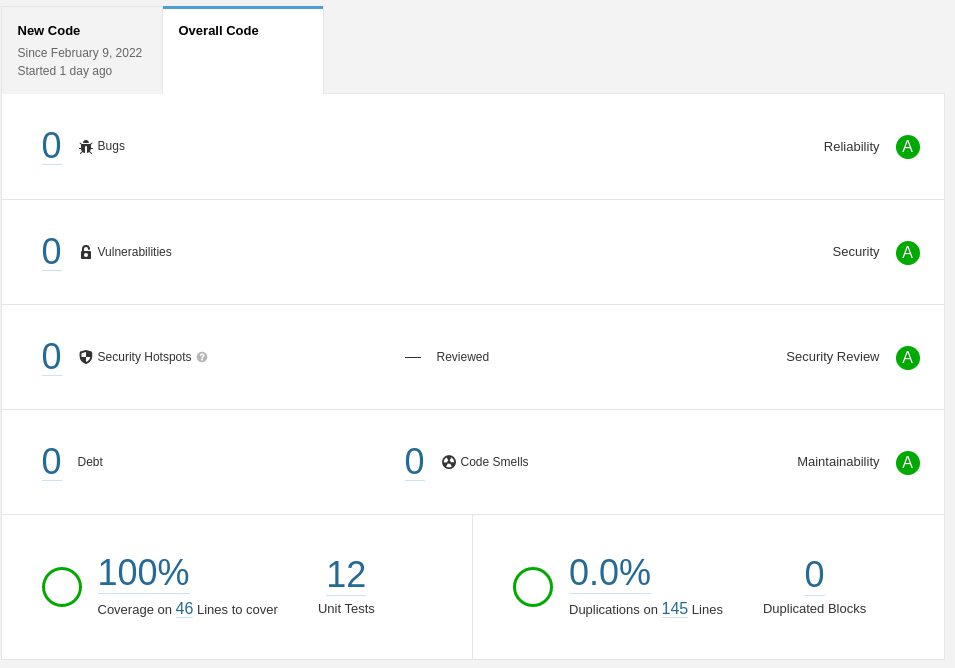
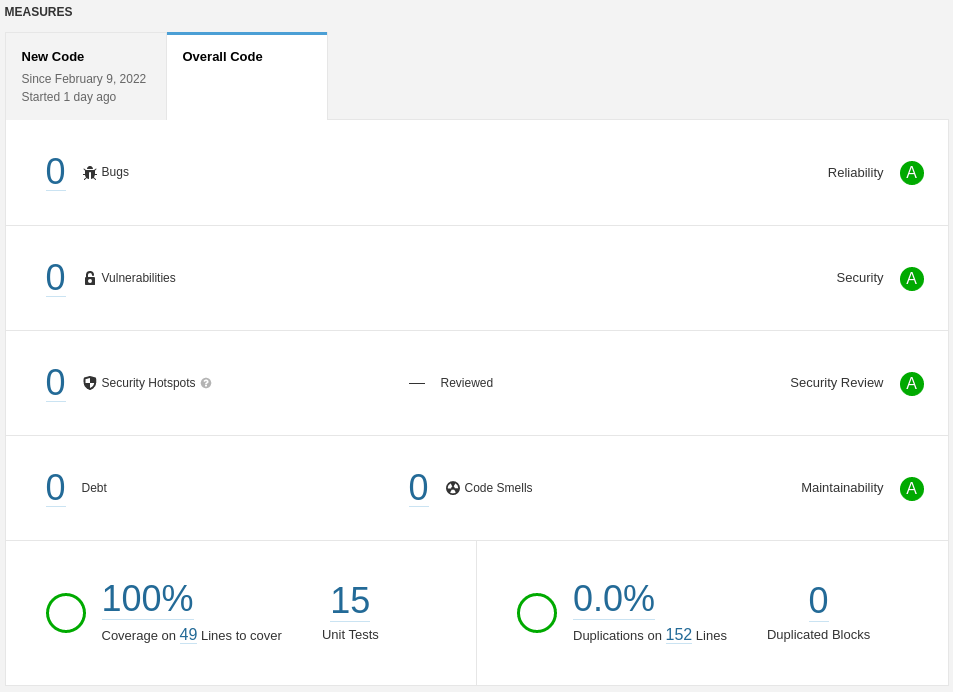
feat: implements email-validator and tests

diff --git a/src/utils/EmailValidadorAdapter.spec.ts b/src/utils/EmailValidadorAdapter.spec.ts
@@ -1,0 +1,37 @@
+import { EmailValitorAdapter } from './EmailValidatorAdapter'
+import EmailValidator from 'email-validator'
+import { EmailValidator as EmailValidatorProtocol } from '../presenter/controller/protocols/emailValidator'
+jest.mock('email-validator', () => ({
+  validate (email: string): boolean { return true }
+}))
+interface makeSutType {
+  emailValidatorAdapter: EmailValidatorProtocol
+}
+
+function makeSut (): makeSutType {
+  return ({
+    emailValidatorAdapter: new EmailValitorAdapter()
+  })
+}
+
+describe('EmailValitorAdapter', () => {
+  it('Expected false on a invalid e-mail', () => {
+    jest.spyOn(EmailValidator, 'validate').mockReturnValueOnce(false)
+    const { emailValidatorAdapter } = makeSut()
+    const isValid = emailValidatorAdapter.isValid('invalid_email@email.com')
+    expect(isValid).toBe(false)
+  })
+
+  it('Expected true on a valid e-mail', () => {
+    const { emailValidatorAdapter } = makeSut()
+    const isValid = emailValidatorAdapter.isValid('valid_email@email.com')
+    expect(isValid).toBe(true)
+  })
+
+  it('Expected isValid will be called with correct value', () => {
+    const { emailValidatorAdapter } = makeSut()
+    const validateMock = jest.spyOn(EmailValidator, 'validate')
+    emailValidatorAdapter.isValid('valid_email@email.com')
+    expect(validateMock).toBeCalledWith('valid_email@email.com')
+  })
+})

diff --git a/src/utils/EmailValidatorAdapter.ts b/src/utils/EmailValidatorAdapter.ts
@@ -1,0 +1,7 @@
+import * as EmailValidatorImp from 'email-validator'
+import { EmailValidator } from '../presenter/controller/protocols/emailValidator'
+export class EmailValitorAdapter implements EmailValidator {
+  isValid (email: string): boolean {
+    return EmailValidatorImp.validate(email)
+  }
+}
